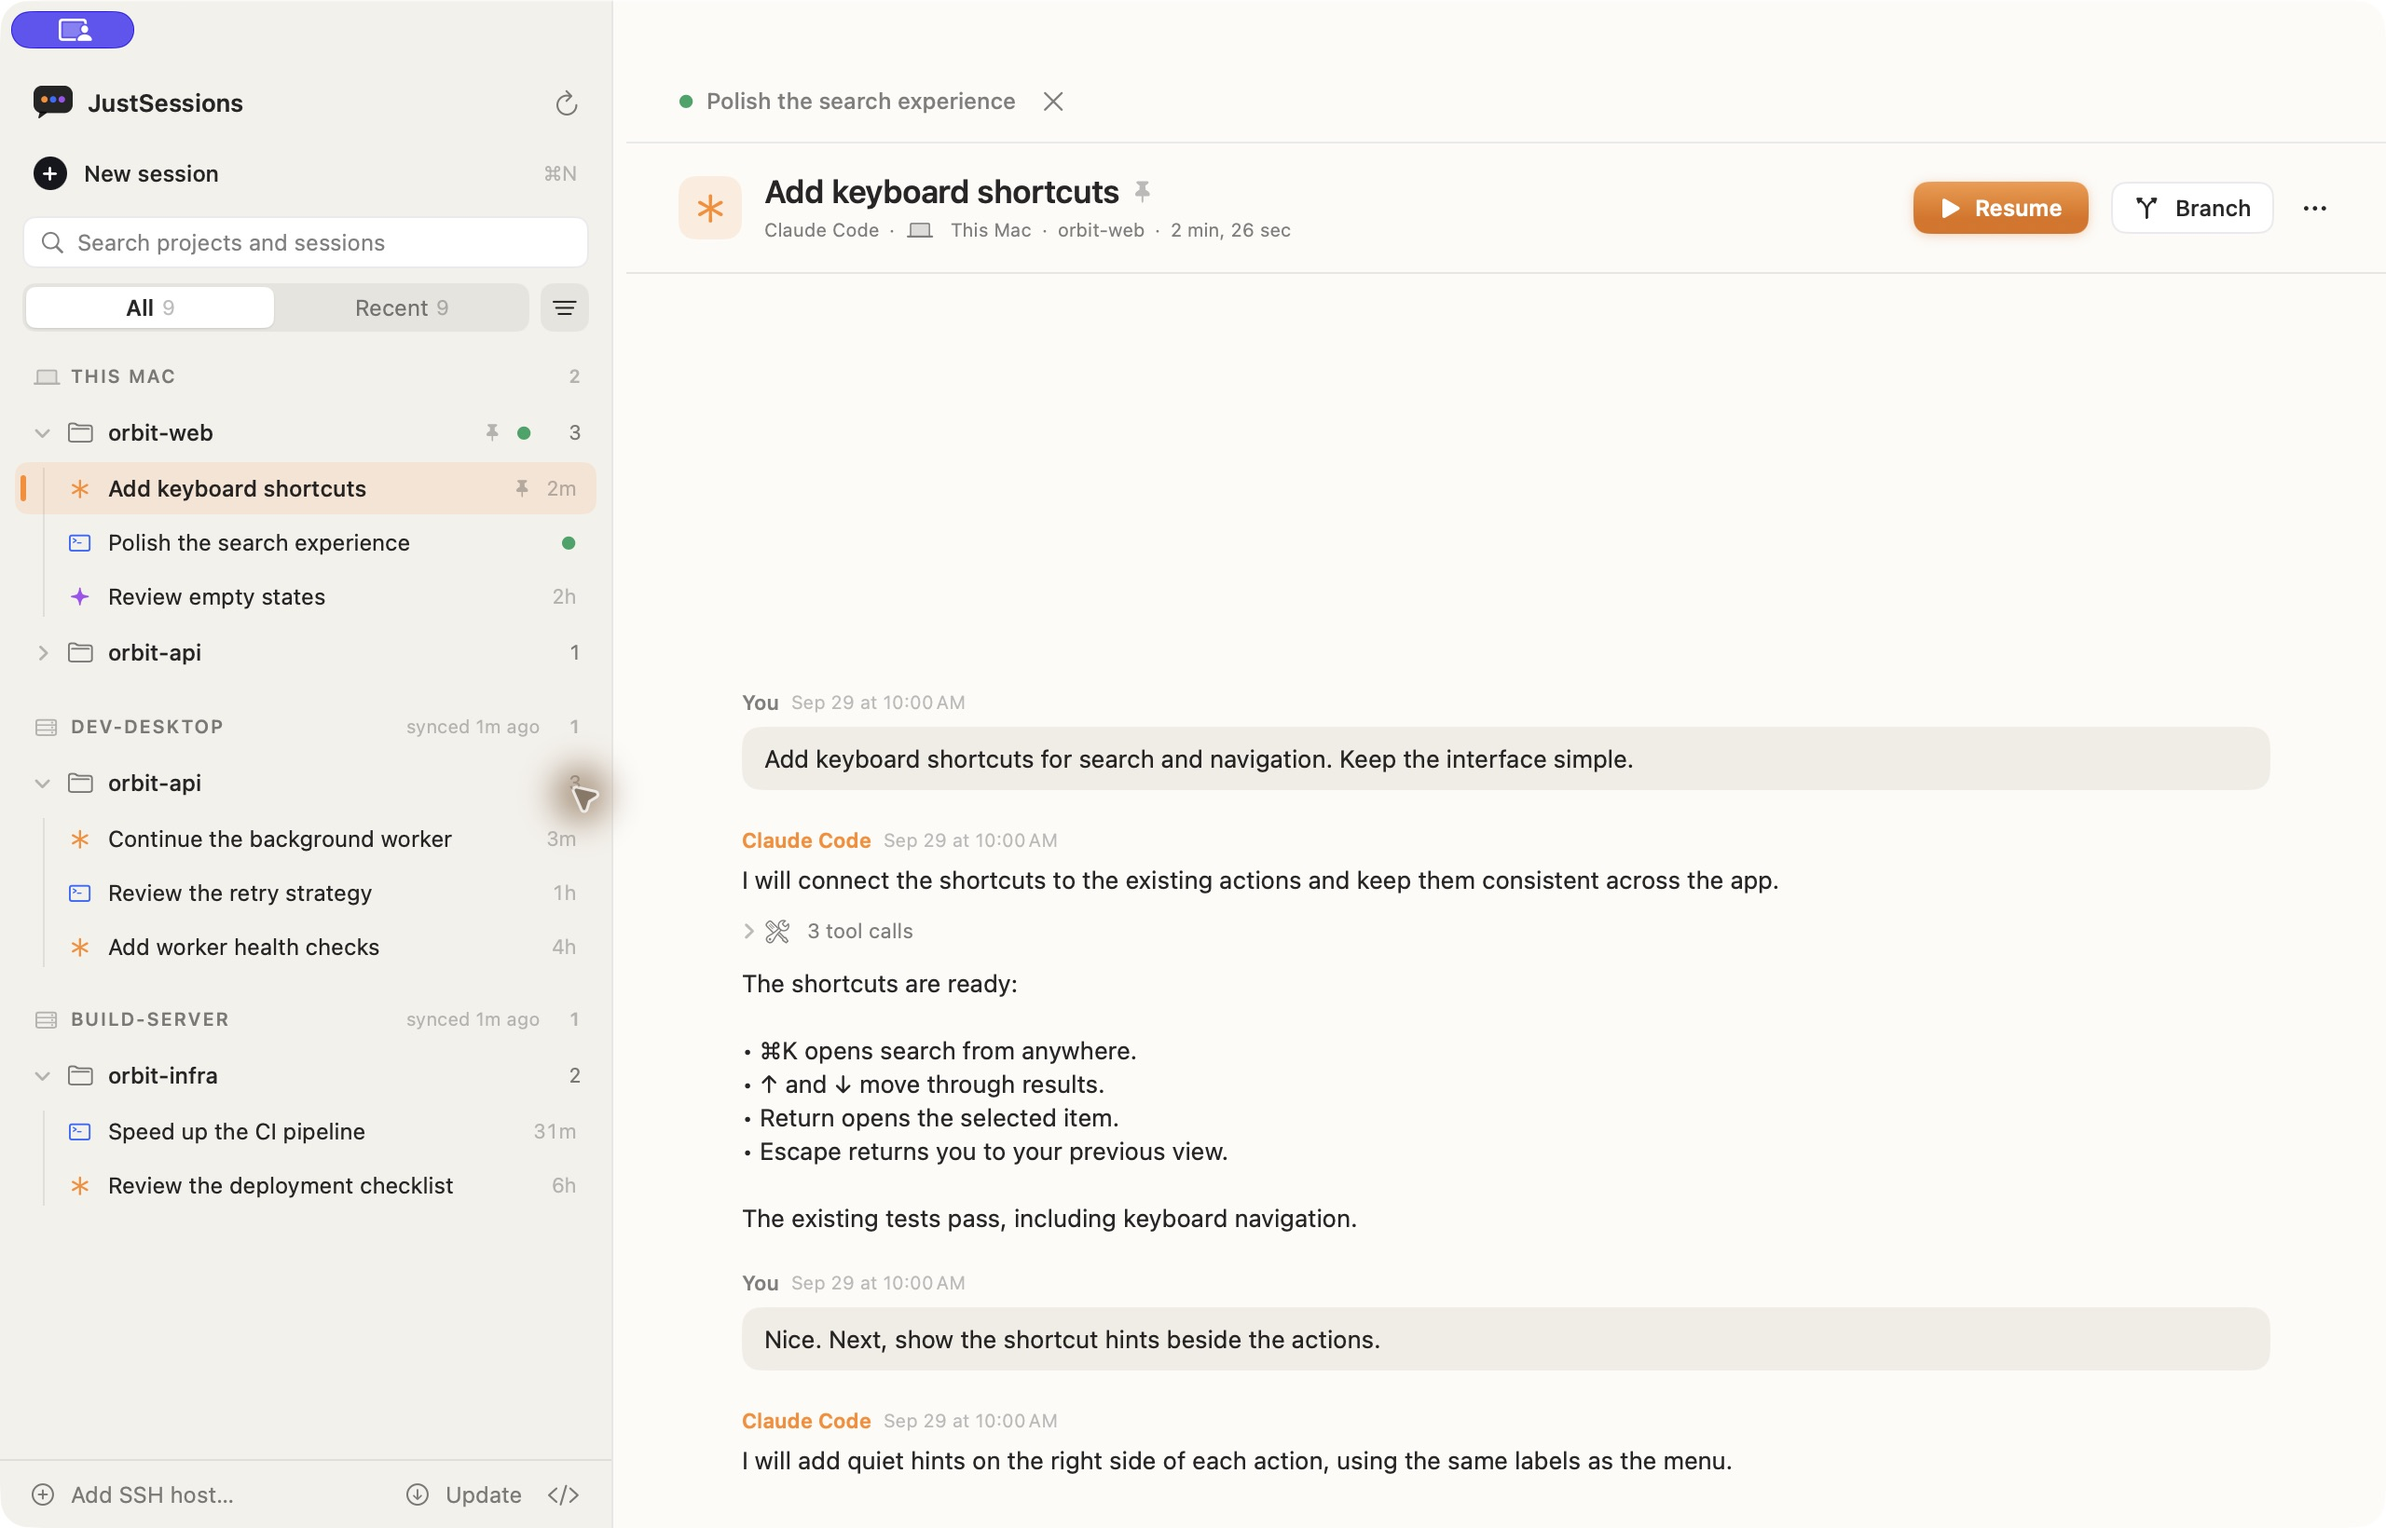
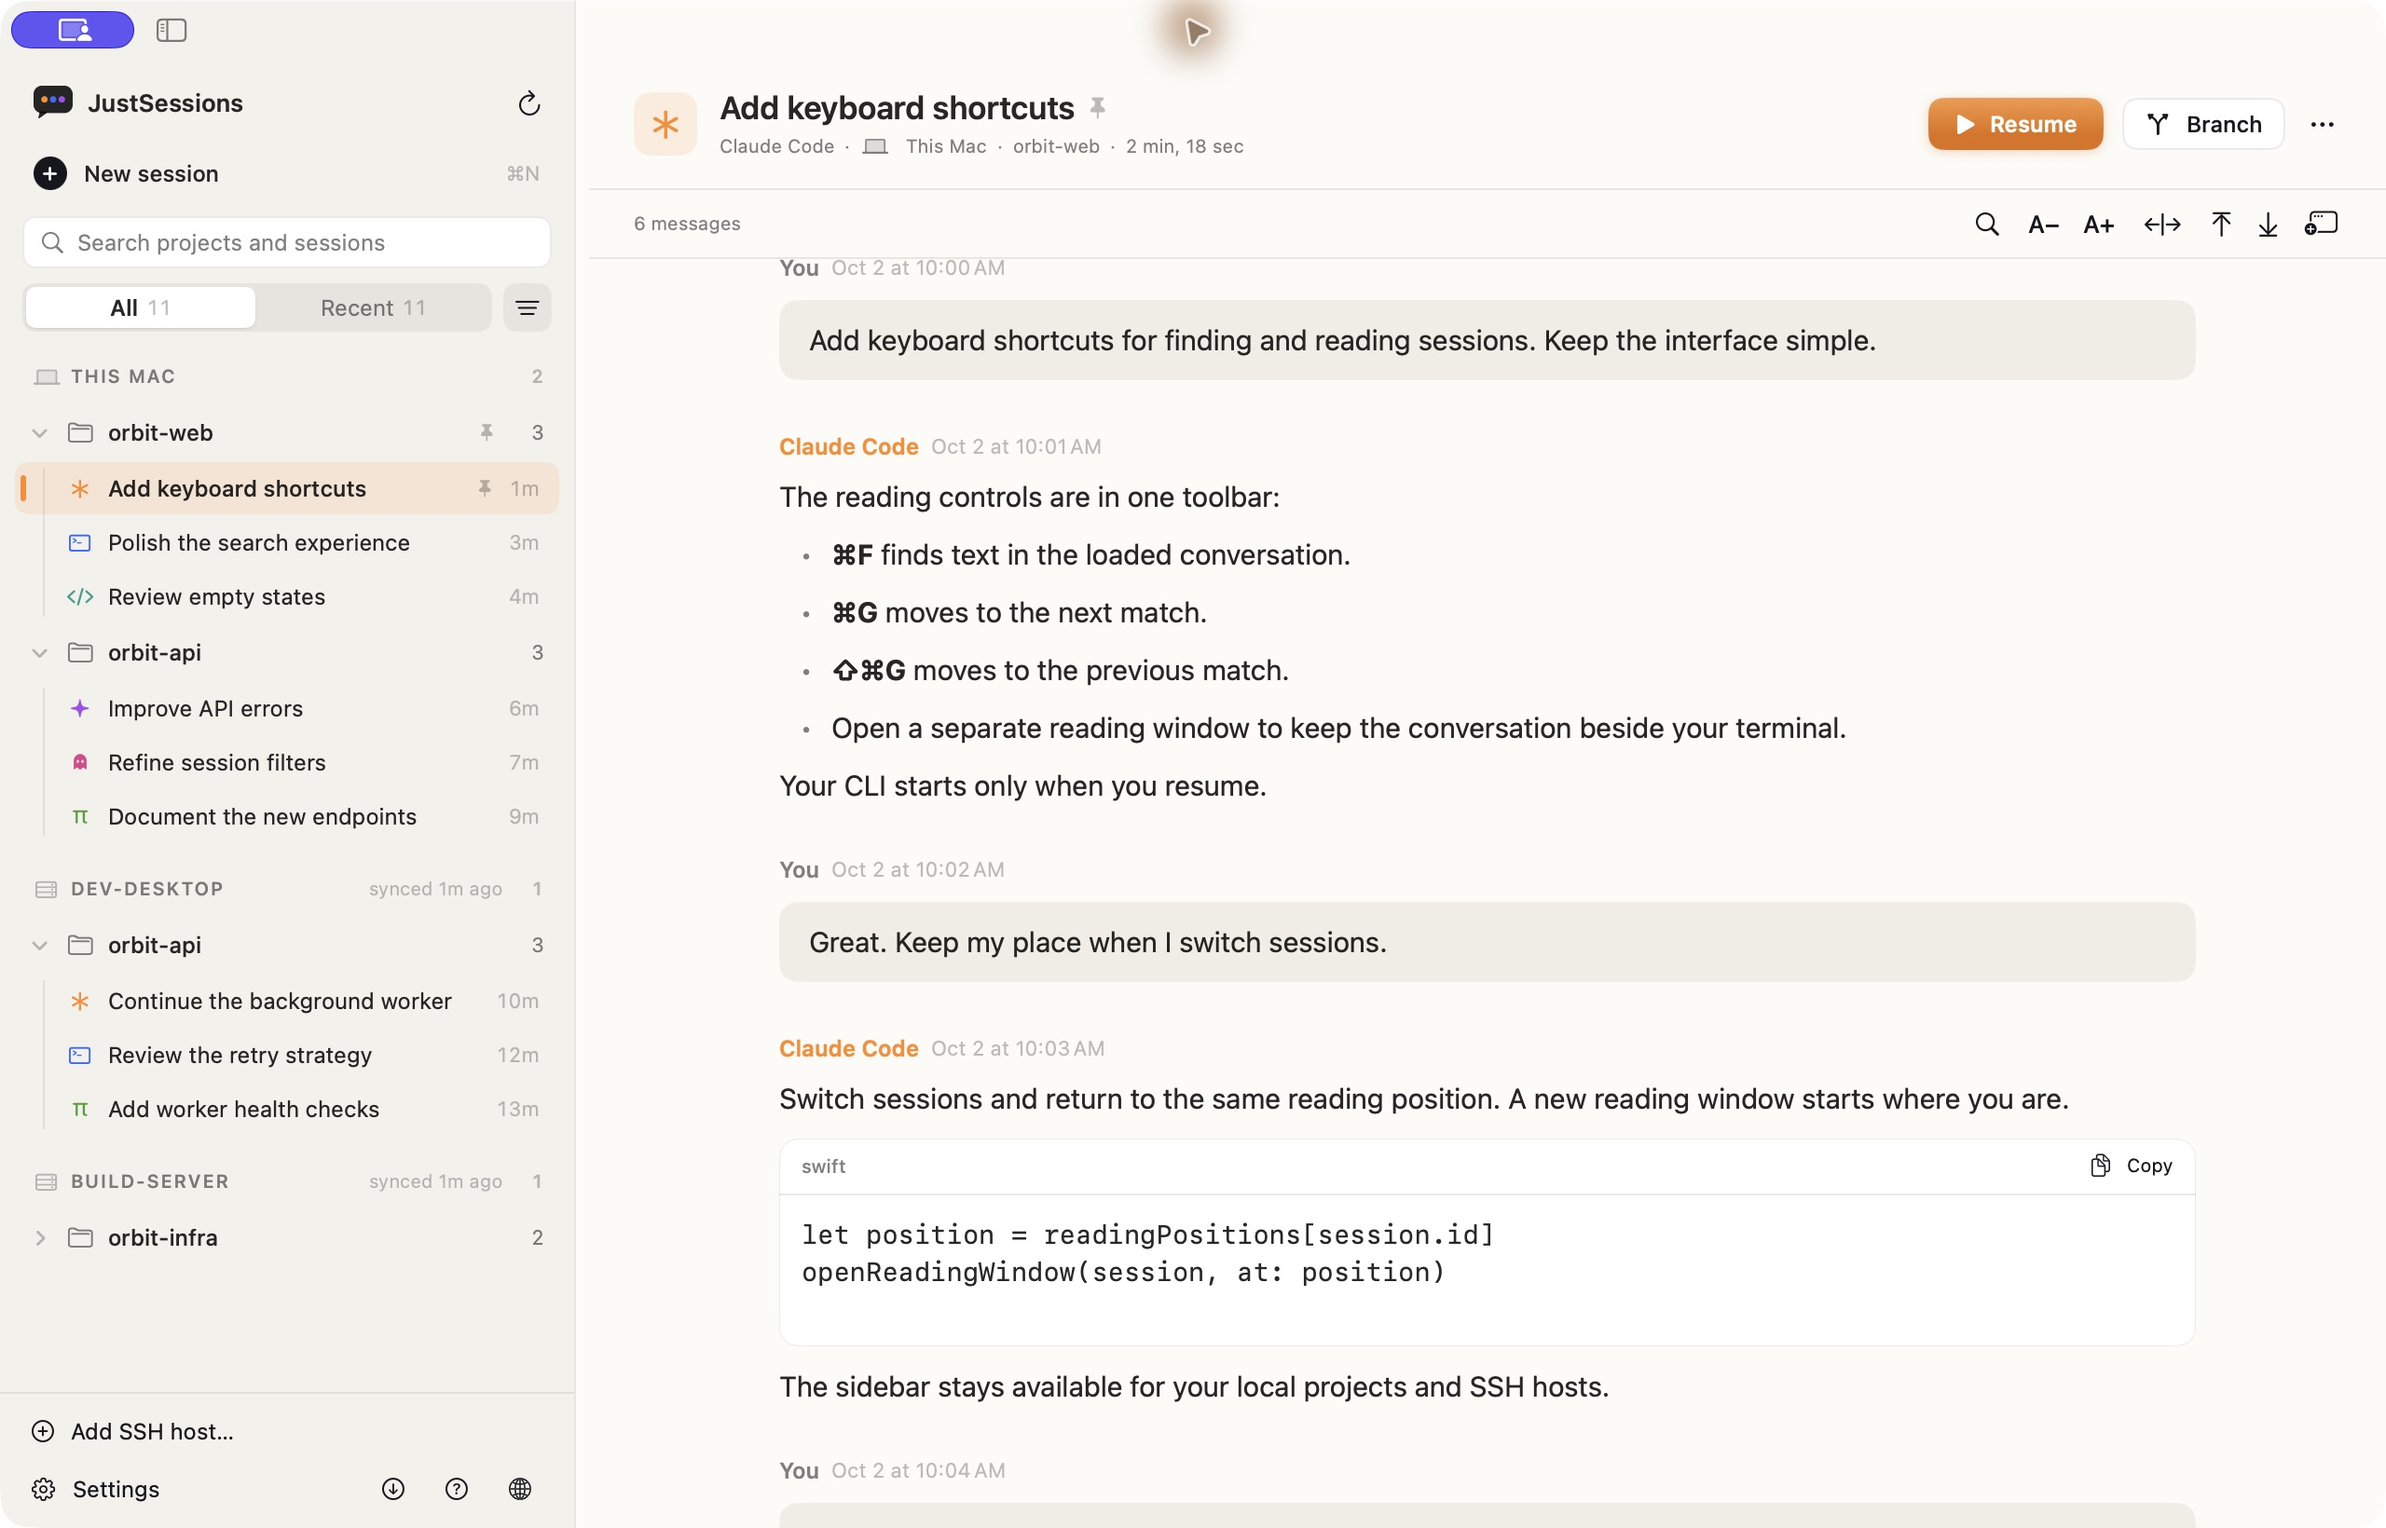
Refresh homepage screenshots and version image assets

diff --git a/website/index.html b/website/index.html
@@ -83,7 +83,7 @@
       </div>
       <figure class="hero-preview">
         <a href="./assets/session-overview.jpg" aria-label="View the JustSessions app screenshot at full size">
-          <img src="./assets/session-overview.jpg" width="2560" height="1640" fetchpriority="high" alt="JustSessions showing projects, pinned AI coding sessions, remote machines, and a Claude Code conversation preview.">
+          <img src="./assets/session-overview.jpg" width="2560" height="1640" fetchpriority="high" alt="JustSessions showing six coding CLIs grouped by project and host, a Claude Code conversation, and the reading toolbar with Find and Open in new window.">
         </a>
         <figcaption>Real app. Sample sessions.</figcaption>
       </figure>
@@ -128,7 +128,7 @@
         </div>
         <figure class="remote-preview">
           <a href="./assets/remote-desktop-sessions.jpg" aria-label="View the remote sessions screenshot at full size">
-            <img src="./assets/remote-desktop-sessions.jpg" width="2560" height="1640" loading="lazy" decoding="async" alt="A Claude Code conversation on the sample dev-desktop SSH host, with local and remote projects in the JustSessions sidebar.">
+            <img src="./assets/remote-desktop-sessions.jpg" width="2560" height="1640" loading="lazy" decoding="async" alt="The current JustSessions reading toolbar above a Claude Code conversation on the sample dev-desktop SSH host, alongside local and remote projects.">
           </a>
           <figcaption>Sample SSH hosts and sessions.</figcaption>
         </figure>

diff --git a/Scripts/Website/validate_site.py b/Scripts/Website/validate_site.py
@@ -30,9 +30,9 @@ def validate_site(website_directory: Path):
                 referenced_path /= "index.html"
             assert referenced_path.is_relative_to(website_directory.resolve()), f"Asset leaves published directory: {reference}"
             assert referenced_path.is_file(), f"Missing local target: {reference}"
-            if referenced_path.suffix == ".css":
+            if referenced_path.suffix in (".css", ".jpg", ".png", ".svg"):
                 expected_version = hashlib.sha256(referenced_path.read_bytes()).hexdigest()[:12]
-                assert parse_qs(parsed_reference.query).get("v") == [expected_version], f"Stylesheet cache version mismatch: {reference}"
+                assert parse_qs(parsed_reference.query).get("v") == [expected_version], f"Asset cache version mismatch: {reference}"
             if parsed_reference.fragment and referenced_path in documents:
                 assert parsed_reference.fragment in documents[referenced_path].identifiers, f"Missing anchor: {reference}"
 
@@ -54,4 +54,4 @@ def validate_site(website_directory: Path):
     sitemap_urls = [element.text for element in sitemap.findall("sitemap:url/sitemap:loc", namespace)]
     assert sitemap_urls == [WEBSITE_URL + page_path for page_path in PUBLIC_PAGE_PATHS], "Sitemap differs from indexed pages"
     assert (website_directory / ".nojekyll").is_file()
-    print(f"Website validation passed: {len(documents)} pages, local links, assets, stylesheet versions, anchors, metadata, JSON-LD, social card, sitemap.")
+    print(f"Website validation passed: {len(documents)} pages, local links, assets, stylesheet/image versions, anchors, metadata, JSON-LD, social card, sitemap.")

diff --git a/Scripts/Website/build_site.py b/Scripts/Website/build_site.py
@@ -31,12 +31,14 @@ def build_site():
         shutil.copy2(REPOSITORY_DIRECTORY / asset_path, asset_directory / Path(asset_path).name)
     for document_path in WEBSITE_OUTPUT_DIRECTORY.glob("*.html"):
         document_content = document_path.read_text()
-        for stylesheet_path in stylesheet_directory.glob("*.css"):
-            stylesheet_version = hashlib.sha256(stylesheet_path.read_bytes()).hexdigest()[:12]
-            stylesheet_reference = f"./styles/{stylesheet_path.name}"
+        for resource_path in (*stylesheet_directory.glob("*.css"), *asset_directory.iterdir()):
+            if not resource_path.is_file():
+                continue
+            resource_version = hashlib.sha256(resource_path.read_bytes()).hexdigest()[:12]
+            resource_reference = f"./{resource_path.relative_to(WEBSITE_OUTPUT_DIRECTORY).as_posix()}"
             document_content = document_content.replace(
-                f'href="{stylesheet_reference}"',
-                f'href="{stylesheet_reference}?v={stylesheet_version}"',
+                f'"{resource_reference}"',
+                f'"{resource_reference}?v={resource_version}"',
             )
         document_path.write_text(document_content)
     (WEBSITE_OUTPUT_DIRECTORY / ".nojekyll").touch()

diff --git a/Scripts/Website/tests/test_asset_versions.py b/Scripts/Website/tests/test_asset_versions.py
@@ -1,0 +1,28 @@
+"""Replacing a screenshot must invalidate its published image URL."""
+
+import sys
+import tempfile
+import unittest
+from pathlib import Path
+from unittest.mock import patch
+
+sys.path.insert(0, str(Path(__file__).resolve().parents[1]))
+
+from build_site import build_site
+from validate_site import validate_site
+
+
+class ScreenshotCacheVersionTests(unittest.TestCase):
+    def test_replacing_screenshot_without_updating_page_is_rejected(self):
+        with tempfile.TemporaryDirectory() as temporary_directory:
+            website_directory = Path(temporary_directory)
+            with patch("build_site.WEBSITE_OUTPUT_DIRECTORY", website_directory):
+                build_site()
+            screenshot_path = website_directory / "assets/session-overview.jpg"
+            screenshot_path.write_bytes(screenshot_path.read_bytes() + b"\0")
+            with self.assertRaisesRegex(AssertionError, "Asset cache version mismatch: .*session-overview"):
+                validate_site(website_directory)
+
+
+if __name__ == "__main__":
+    unittest.main()

diff --git a/docs/images/README.md b/docs/images/README.md
@@ -1,13 +1,13 @@
 # README screenshots
 
-These are unedited JPEG captures of the actual JustSessions SwiftUI interface, built from revision `7439345` on September 29, 2026. A separate local screenshot app supplied sample projects and conversations to the production views and models. The normal app and its saved sessions were not used as screenshot content.
+These are unedited JPEG captures of the actual JustSessions SwiftUI interface. The overview and SSH captures were refreshed from revision `badb934` on October 2, 2026, using the current production views and models in a separate local screenshot app. The tmux dialog was captured from revision `7439345` on September 29, 2026. The normal app and its saved sessions were not used as screenshot content.
 
 | Image | What it shows |
 | --- | --- |
-| [session-overview.jpg](session-overview.jpg) | Local projects, CLI labels, pinned sessions, conversation preview, and remote host groups. |
-| [remote-desktop-sessions.jpg](remote-desktop-sessions.jpg) | A selected Claude Code conversation under the sample `dev-desktop` SSH host. |
+| [session-overview.jpg](session-overview.jpg) | All six CLI icons, pinned sessions, the sidebar's Settings/Help/website controls, and the current reading toolbar with Find and Open in new window. |
+| [remote-desktop-sessions.jpg](remote-desktop-sessions.jpg) | A selected Claude Code conversation under the sample `dev-desktop` SSH host with the current sidebar and reading controls. |
 | [tmux-keep-running.jpg](tmux-keep-running.jpg) | The real close-tab confirmation with **Keep running**, **End session**, and **Cancel**. |
 
 `orbit-web`, `orbit-api`, `orbit-infra`, the host names, and all conversation text are illustrative. The remote host data was supplied as a fixture; these images do not document a live SSH connection. The terminal example used a sample process in a separate tmux server, and that process remained running after the screenshot app quit. The example does not run an AI provider or consume model credits.
 
-When replacing these images, capture the current native interface with sample data, retain the real feature labels, and update the source revision above. Keep each screenshot's descriptive alt text and sample-data caption in the [main README](../../README.md).
+When replacing these images, capture the current native interface with sample data, retain the real feature labels, and update the source revision above. The October captures used the debug objects from `make verify`, excluding the normal app entry point, linked to a temporary sample-data app with background polling disabled. They show reading, without launching a CLI or making an SSH connection. Keep each screenshot's descriptive alt text and sample-data caption in the [main README](../../README.md).

diff --git a/docs/development/website.md b/docs/development/website.md
@@ -18,7 +18,7 @@ It also checks visible CLI names, commands, and preview/branch/SSH/deletion cell
 
 The homepage's capability summary uses `data-capability` and `data-support="all|some|none"` on its reading, deletion, SSH, and branching claims. The same check compares these markers with the app's capabilities, so a stale homepage summary also blocks publication. Keep each marker on the sentence or phrase describing that capability.
 
-The website reuses screenshots from `docs/images/` and existing `Branding/` assets at build time. Stylesheet links include a content hash so a new page loads the matching CSS after an update. Keep the sample-data captions and feature limitations accurate when replacing them. See [screenshot provenance](../images/README.md).
+The website reuses screenshots from `docs/images/` and existing `Branding/` assets at build time. Local stylesheet and image links include a content hash so a new page loads the matching CSS and screenshots after an update. The build validates those versions. Keep the sample-data captions and feature limitations accurate when replacing them. See [screenshot provenance](../images/README.md).
 
 `help.html` is linked from the main navigation and footer, and included in the sitemap. It briefly lists features and highlights installing tmux on remote hosts. It links to the full guide and GitHub issues. The old `feedback.html` URL redirects to Help, uses `noindex`, and stays out of the sitemap. Check both the homepage navigation and the Help page at mobile widths after changing either.
 
